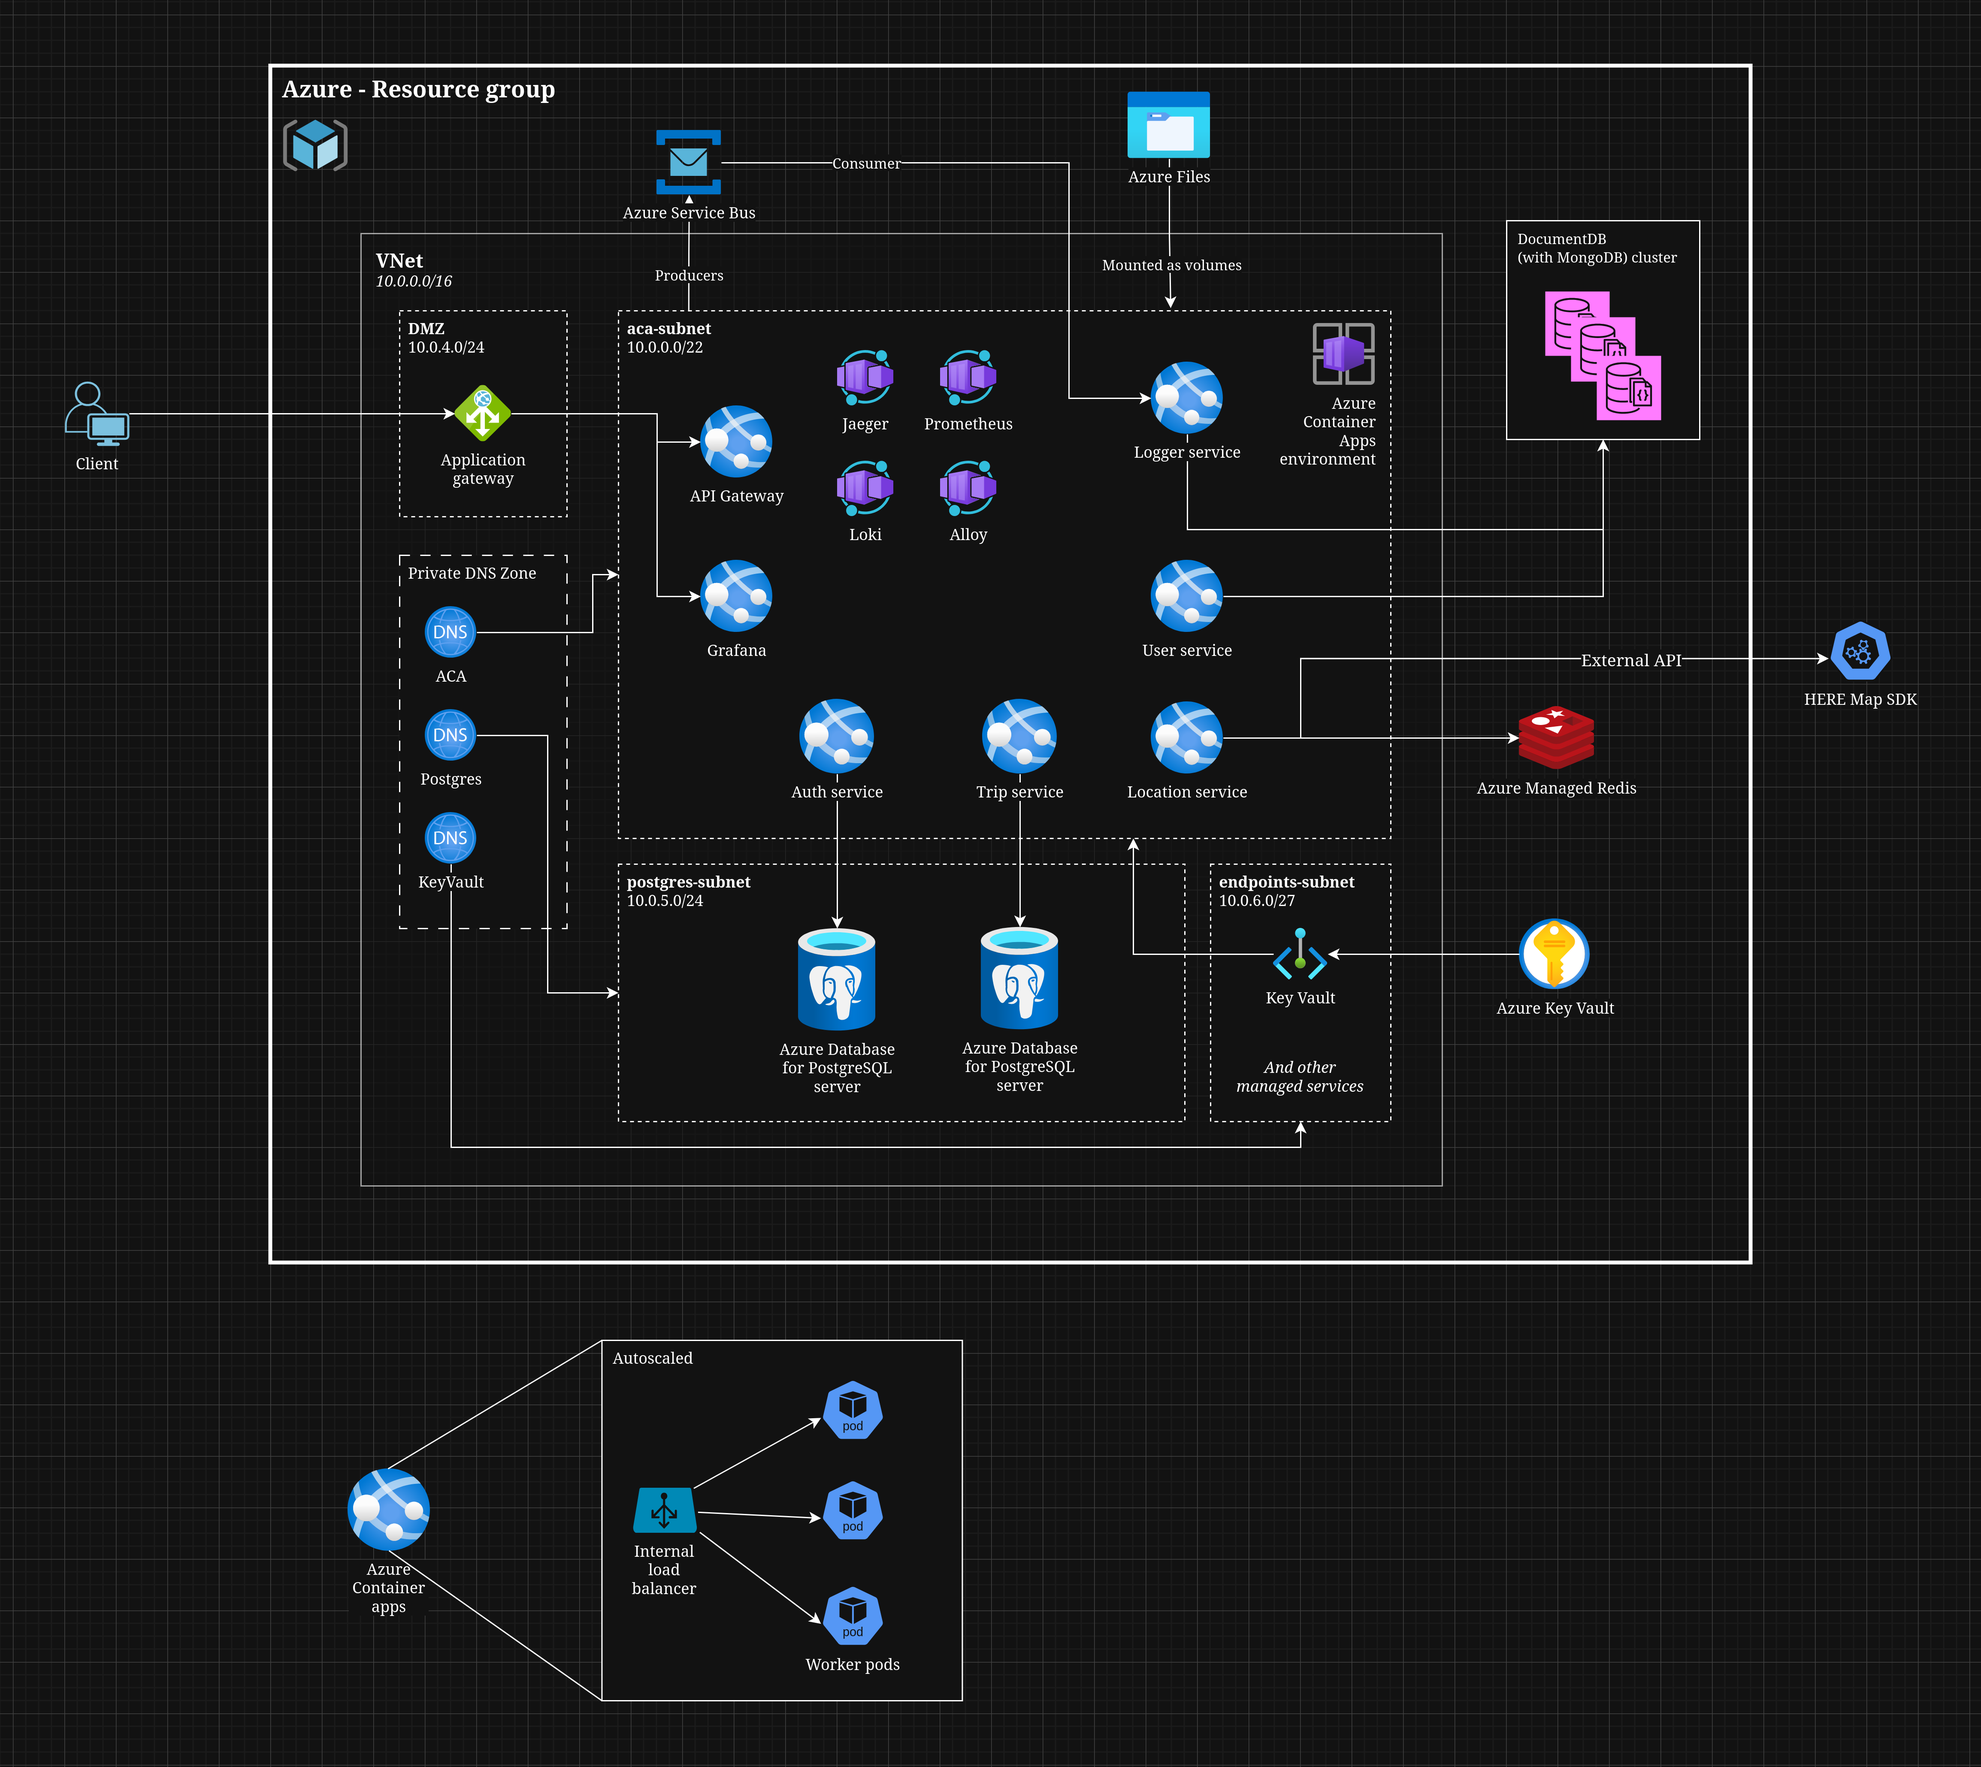
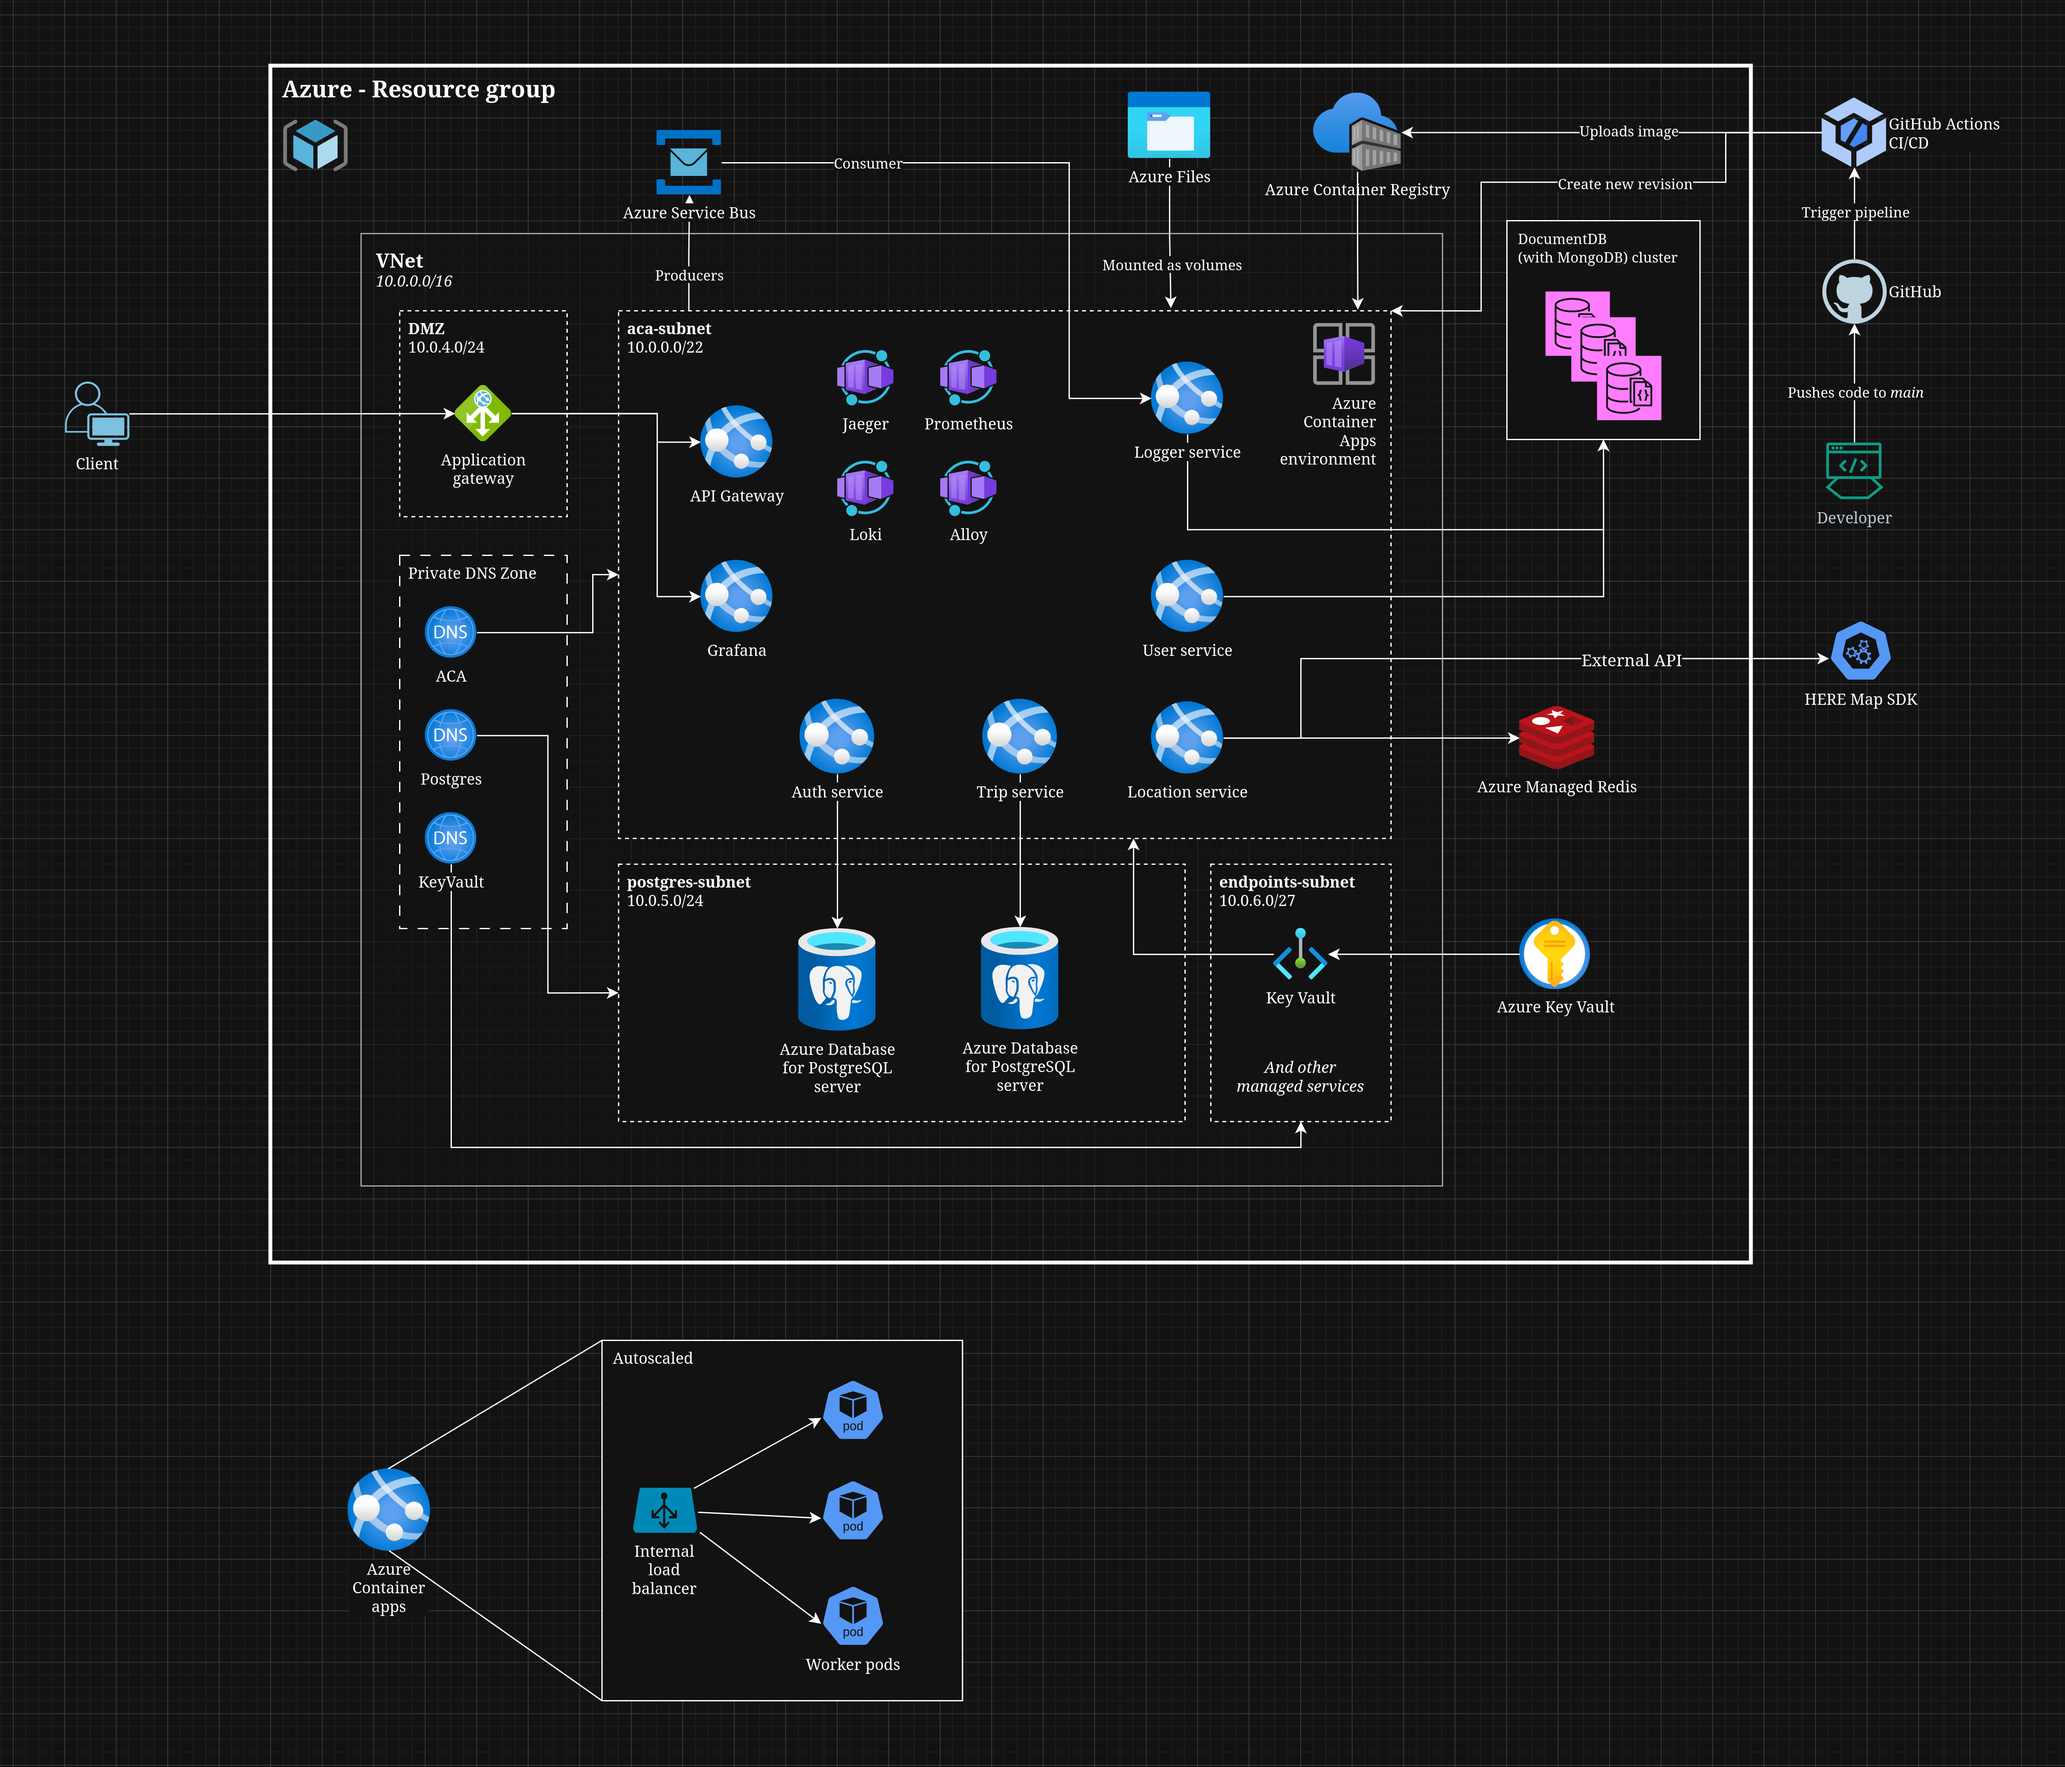
Add module e and update architecture diagrams

diff --git a/REPORT.md b/REPORT.md
@@ -10,6 +10,8 @@ Aside from these, most of the concepts should be similar or have a competitor al
 
 Keep in mind, generally Azure is more invested in their own MS SQL Server and Document DB services, while AWS is more invested in MySQL, PostgreSQL so hyperscale service offerings between 2 companies in these areas might differ.
 
+And we also uses `opentofu` instead of `terraform` for IaC because licensing and Linux Foundation backing. However, there should be no difference running our tf project with both tools. Locally I symlinked `terraform` to `tofu` and everything works fine.
+
 ## App diagram - dev's story
 
 We have the following services in our app skeleton:
@@ -114,6 +116,41 @@ The project will primarily do Module D and E:
 ### Automation - CI/CD
 
 **GitHub Actions** is used as the CI/CD platform, simply because CI/CD itself is just a task runner that run a shell script when a webhook is triggered, usually through Git repo push actions to a branch. Since the project is already hosted on GitHub, GitHub Actions is easy to add. It allows custom runner too, so no dependent costs, and can migrate easily anytime since it's just CI/CD.
+
+Each services (a folder in the `services` folder) that need to be deployed will have its own pipeline defined. If any files in and only in that folder changes, it will trigger a build run, which `docker build` that image, then pushes to ACR, then trigger updates in ACA to create a new revision with `azure-cli`.
+
+A revision is like an app update, config update or similar that doesn't change underlying infrastructure. Usually it's used to update our apps, like in this case, or even do A/B testing or multiple API versions, etc.
+
+Rolling updates will be automatically done on revision change by ACA (it's just K8s) so no service disruption.
+
+### Automation - IaC OpenTofu modules
+
+The IaC codebase is splitted into modules for easier re-use, and structured in industry best practice.
+
+We have (at least) these modules:
+- networking: vnets, acls, dns,...
+- aca-infra: define ACR, ACA environments,...
+- aca-service: create an ACA service that runs inside ACA environment created with `aca-infra`
+- postgres
+- redis
+- resource-group
+- azure-files
+- service-bus
+- key-vault
+- documentdb
+- app-gw
+
+Then combined in the top-level module `main.tf`.
+
+In case a new service is added, just add a new block of module `aca-service` into the top-level module with configs for it.
+
+We do have the problem of chicken-and-egg when provisioning ACR and ACA, since ACR is newly-deployed, and have no images on it yet, but ACA needs a pullable image to provision, so this would fails.
+
+https://www.mytechramblings.com/posts/how-to-push-a-container-image-into-acr-using-te
+
+We picked the build-inline option, which involves using `null_resource` to trigger a shell command to use `az acr build` to build the images and pushes to ACR after creating the ACR but before creating ACA so that it has a valid image.
+
+This is hacky, but the other option is to use a dummy image and update later with CI/CD, which can overwrite when we do `tf apply` so in my opinion even more hacky. This is the state of Terraform. This is not a good state. But what can we do?
 
 ### Cost calculation and optimization
 We used the **Azure Pricing Calculator** to estimate our monthly costs.

diff --git a/infrastructure/ARCHITECTURE.md b/infrastructure/ARCHITECTURE.md
@@ -1,4 +1,4 @@
-# dm cloud
+# cloud
 
 MS docs are starting to be written by AI. Be careful.
 
@@ -85,7 +85,3 @@ Azure Key Vault.
 Then connect to ACA to provide the secrets.
 
 No need for alternatives. But if you insist, bitnami sealed secrets, and other key vaults.
-
-## Grafana and friends
-
-## 
